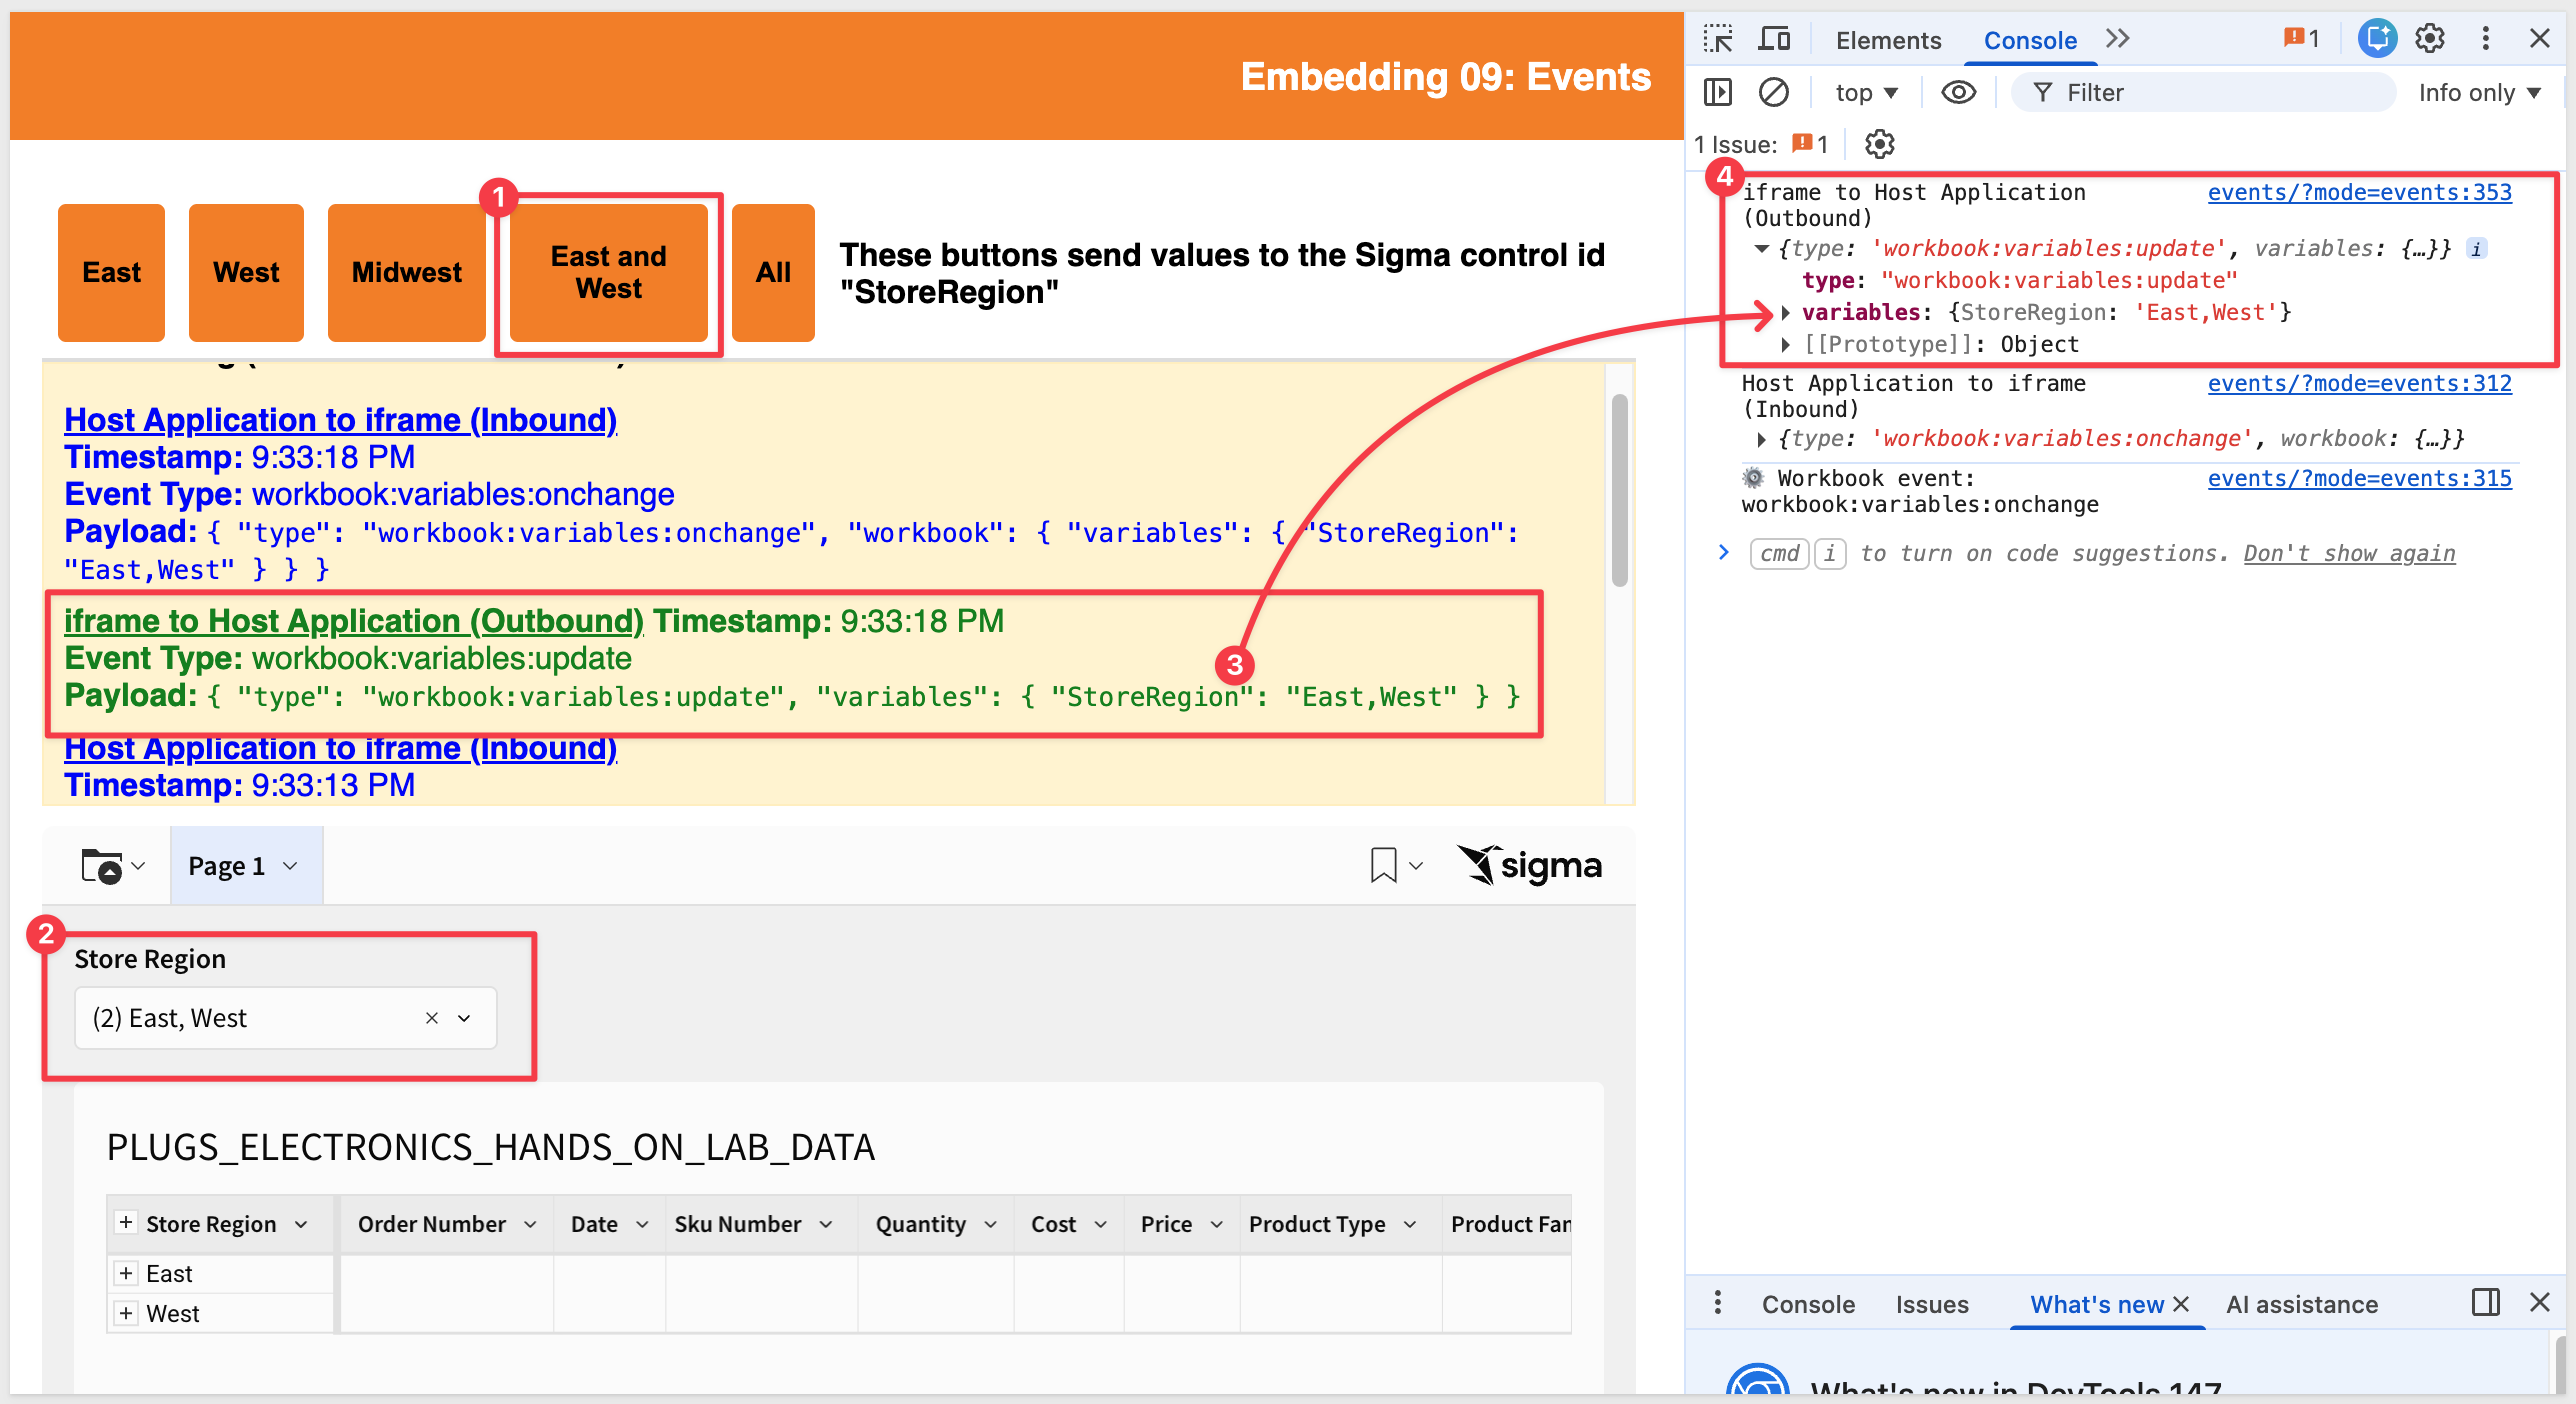
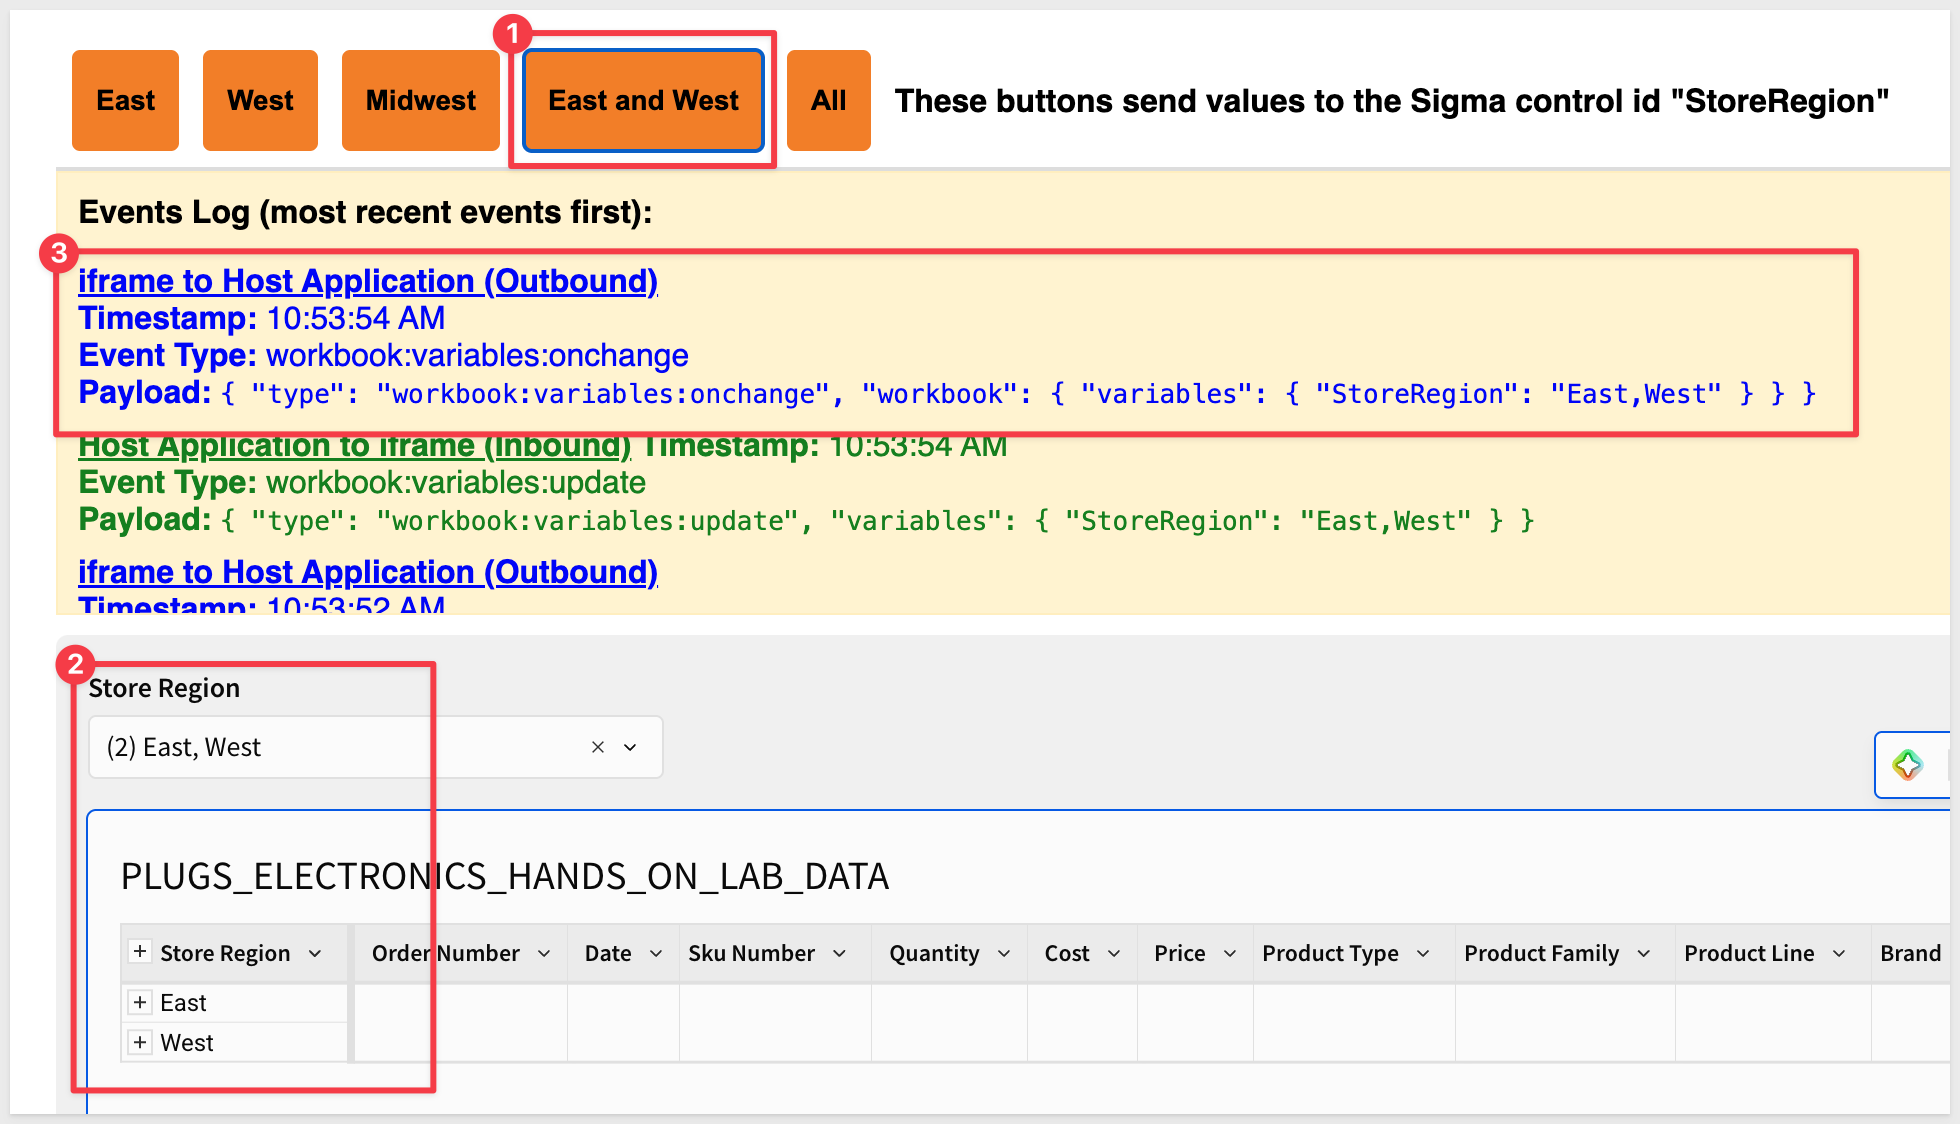
events-9-corrections

diff --git a/site/sigmaguides/src/embedding_09_events_v3/embedding_09_events_v3.md b/site/sigmaguides/src/embedding_09_events_v3/embedding_09_events_v3.md
@@ -13,7 +13,7 @@ lastUpdated: 2026-05-20
 ## Overview 
 Duration: 5 
 
-In this QuickStart, we demonstrate how to pass variables between the host application application and Sigma. Sigma is embedded in the host application using HTML iframe. 
+In this QuickStart, we demonstrate how to pass variables between the host application and Sigma. Sigma is embedded in the host application using an HTML iframe.
 
 **Inbound Events:**<br>
 These are variables sent from the host application to Sigma. **No listener needs to be coded into the iframe**. Sigma can use these messages to update control values. For example, passing a new value to a Sigma control that is used to filter table data.
@@ -145,8 +145,8 @@ We have designed this page to display an `Events Log` using JavaScript for easy 
 <img src="assets/ev_5.png" width="800"/>
 
 Event log types are color-coded:
-- **Blue:** Host application to iframe (Inbound)
-- **Green:** iframe to host application (Outbound)
+- **Blue:** iframe to host application (Outbound)
+- **Green:** Host application to iframe (Inbound)
 
 The orange region buttons are part of the host application. Clicking any of them sends the selected region value to Sigma via the iframe.
 
@@ -160,9 +160,9 @@ For example, if we click the `East` button:
 
 Clicking `East` initiates a two-step exchange:
 
-1. The host application calls `setStoreRegion("East")`, which sends a `workbook:variables:update` message to Sigma via `postMessage`. This is the **outbound** event — logged in green in the Events Log and in the browser console.
+1. The host application calls `setStoreRegion("East")`, which sends a `workbook:variables:update` message to Sigma via `postMessage`. This is the **inbound** event (host to Sigma) — logged in green in the Events Log and in the browser console.
 
-2. Sigma receives the variable update, applies it to the embedded workbook, and sends back a `workbook:variables:onchange` confirmation. This is the **inbound** event — logged in blue.
+2. Sigma receives the variable update, applies it to the embedded workbook, and sends back a `workbook:variables:onchange` confirmation. This is the **outbound** event (Sigma to host) — logged in blue.
 
 Both events are visible in the `Events Log` panel and in the browser console simultaneously. The console is useful for inspecting the full payload structure, while the Events Log provides a human-readable view within the page.
 
@@ -173,6 +173,10 @@ Conversely, if you select `East and West` from the list control, we can see the 
 <aside class="negative">
 <strong>NOTE:</strong><br> We are using Chrome for this QuickStart but any browser with inspection functionality should work.
 </aside>
+
+If we add a simple bar chart, we can see the [workbook:chart:onvalueselect](https://help.sigmacomputing.com/docs/outbound-event-reference#workbookchartonvalueselect) event fire by clicking on a single bar:
+
+<img src="assets/ev_5c.png" width="800"/>
 
 ![Footer](assets/sigma_footer.png)
 <!-- END -->
@@ -186,27 +190,27 @@ These listeners allow us to log and inspect messages to and from the iframe — 
 
 Two key code blocks handle message flow in our HTML file:
 
-1. **Inbound events from Sigma to the iframe** are captured using a `window.addEventListener("message")` listener.
-2. **Outbound events from the iframe to Sigma** are triggered via the `postMessage()` call in `setStoreRegion(region)`.
+1. **Outbound events from Sigma to the host** are captured using a `window.addEventListener("message")` listener.
+2. **Inbound events from the host to Sigma** are triggered via the `postMessage()` call in `setStoreRegion(region)`.
 
 Each message is logged to the panel with a timestamp, type, payload, and directional label for clarity.
 
-### Inbound events to the iframe
-The specific code block for inbound events is:
+### Outbound events from Sigma
+The specific code block for outbound events is:
 
 ```copy-code
 window.addEventListener("message", (event) => {
   if (event.origin !== "https://app.sigmacomputing.com") return;
 
   const { type } = event.data || {};
-  console.log("Host Application to iframe (Inbound)", event.data);
+  console.log("iframe to Host Application (Outbound)", event.data);
 
   const logContainer = document.getElementById("event-output");
   const logItem = document.createElement("li");
   logItem.style.marginBottom = "8px";
   logItem.style.color = "blue";
   logItem.innerHTML = `
-    <strong style="text-decoration: underline;">Host Application to iframe (Inbound)</strong><br/>
+    <strong style="text-decoration: underline;">iframe to Host Application (Outbound)</strong><br/>
     <strong>Timestamp:</strong> ${new Date().toLocaleTimeString()}<br/>
     <strong>Event Type:</strong> ${type || "unknown"}<br/>
     <strong>Payload:</strong> <code>${JSON.stringify(event.data, null, 2)}</code>
@@ -217,8 +221,8 @@ window.addEventListener("message", (event) => {
 
 This block listens for messages from Sigma and logs them using the message event.
 
-### Outbound events from the iframe
-This function sends variable updates to Sigma and logs the outbound message.
+### Inbound events to Sigma
+This function sends variable updates to Sigma and logs the inbound message.
 
 ```copy-code
 function setStoreRegion(region) {
@@ -233,14 +237,14 @@ function setStoreRegion(region) {
       message,
       "https://app.sigmacomputing.com"
     );
-    console.log("iframe to Host Application (Outbound)", message);
+    console.log("Host Application to iframe (Inbound)", message);
 
     const logContainer = document.getElementById("event-output");
     const logItem = document.createElement("li");
     logItem.style.marginBottom = "8px";
     logItem.style.color = "green";
     logItem.innerHTML = `
-      <strong style="text-decoration: underline;">iframe to Host Application (Outbound)</strong><br/>
+      <strong style="text-decoration: underline;">Host Application to iframe (Inbound)</strong><br/>
       <strong>Timestamp:</strong> ${new Date().toLocaleTimeString()}<br/>
       <strong>Event Type:</strong> ${message.type}<br/>
       <strong>Payload:</strong> <code>${JSON.stringify(message, null, 2)}</code>
@@ -250,15 +254,15 @@ function setStoreRegion(region) {
 }
 ```
 
-Here is an explanation of the first command:
+Here is an explanation of the `getElementById` call:
 
-<img src="assets/ev_8.png" width="500"/>
+<img src=”assets/ev_8.png” width=”500”/>
 
-The second command sends a new value for the variable called “StoreRegion” to the Sigma iframe using the JavaScript postmessage method. PostMessage() is a global method that safely enables cross-origin communication. It’s a lot like Ajax, but with cross-domain capability (i.e., communication between two websites).
+The `postMessage()` call sends a new value for the variable `StoreRegion` to the Sigma iframe. `postMessage()` is a global method that safely enables cross-origin communication between a host page and an embedded iframe.
 
-Here is an explanation of the second command:
+Here is an explanation of the `postMessage()` call:
 
-<img src="assets/ae6.png" width="600"/>
+<img src=”assets/ae6.png” width=”600”/>
 
 ```plaintext
 sigma_iframe.contentWindow.postMessage({type:"workbook:variables:update", variables: {StoreRegion: "West"},}, 'https://app.sigmacomputing.com',);
